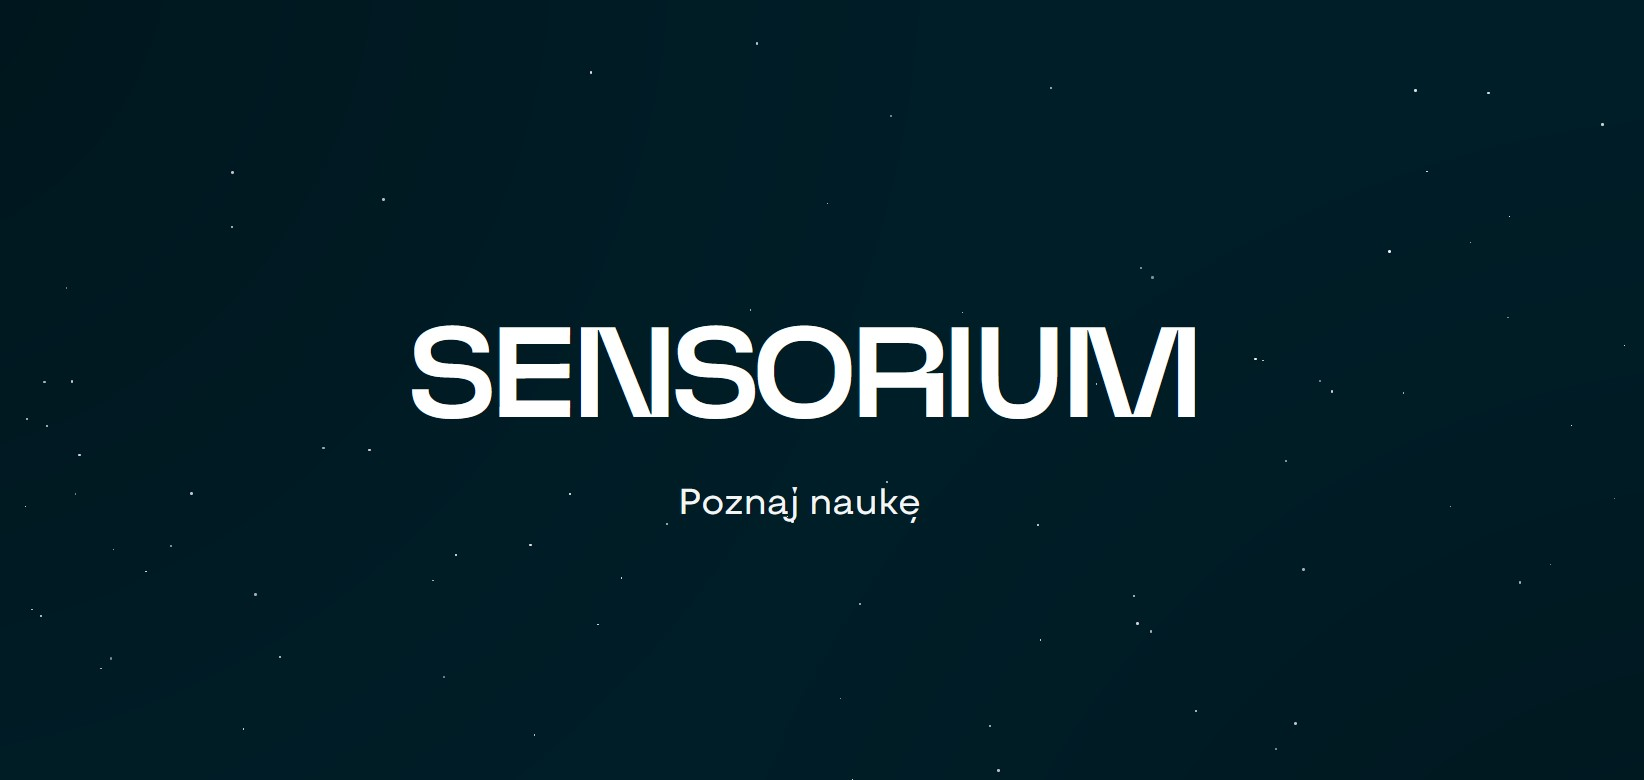
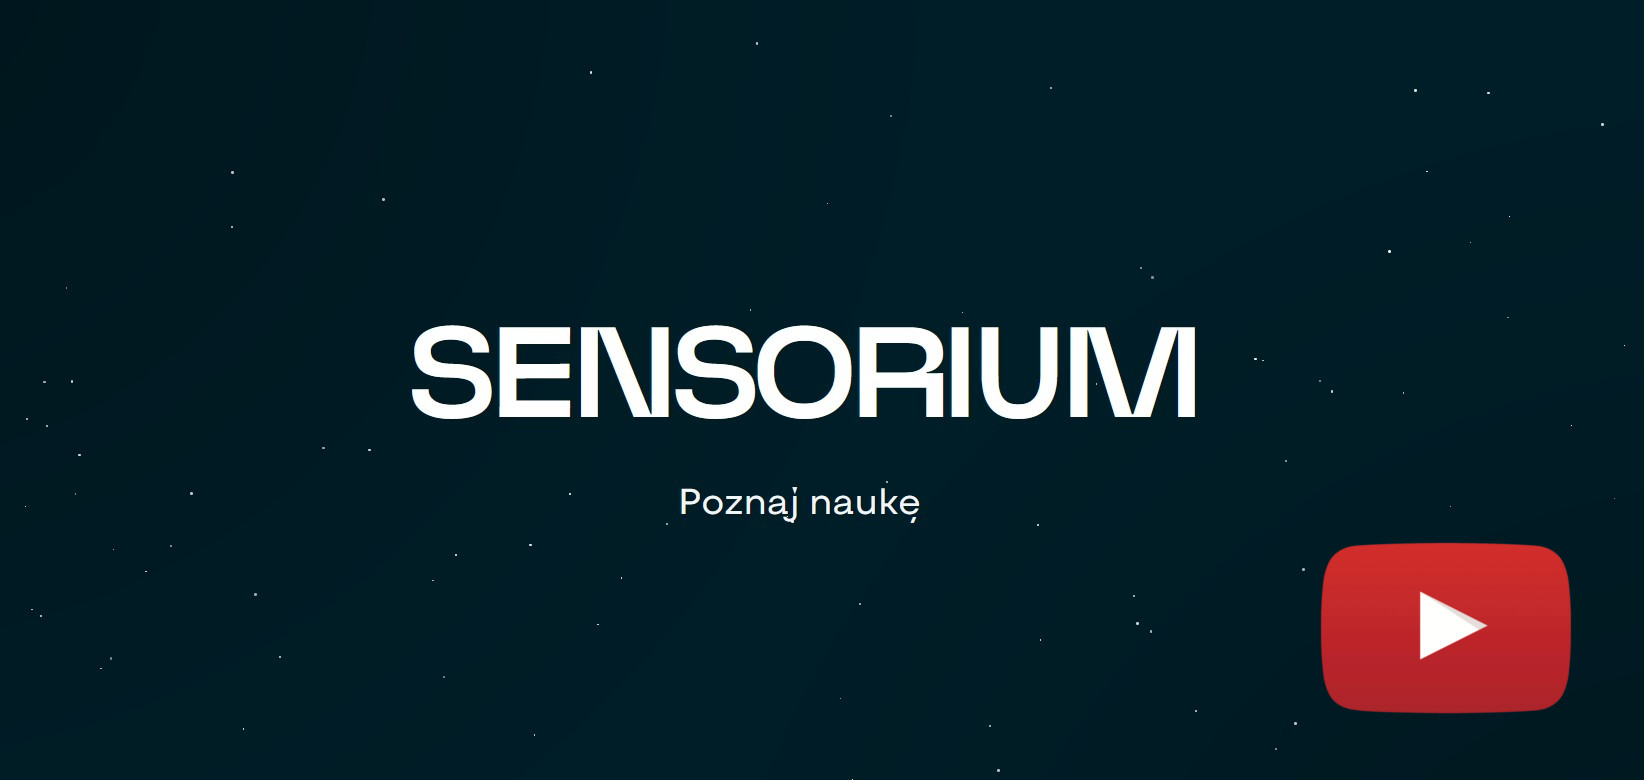
update readme again

Changed region(s): [[0.8066, 0.6769, 0.9617, 0.9231]]

diff --git a/Readme.md b/Readme.md
@@ -3,7 +3,7 @@
 Project of a page made for "Sensorium" project, the aim of which is to combine art and technology.
 
 [![Video Preview](thumbnail.jpg)](https://www.youtube.com/watch?v=jSXL4BMobjo)
-
+*Click to see the preview video on YouTube*
 ## Tech Stack
 
 Web page developed with the purpose of being served on Wordpress backend. However current version provides backend using NodeJS.
